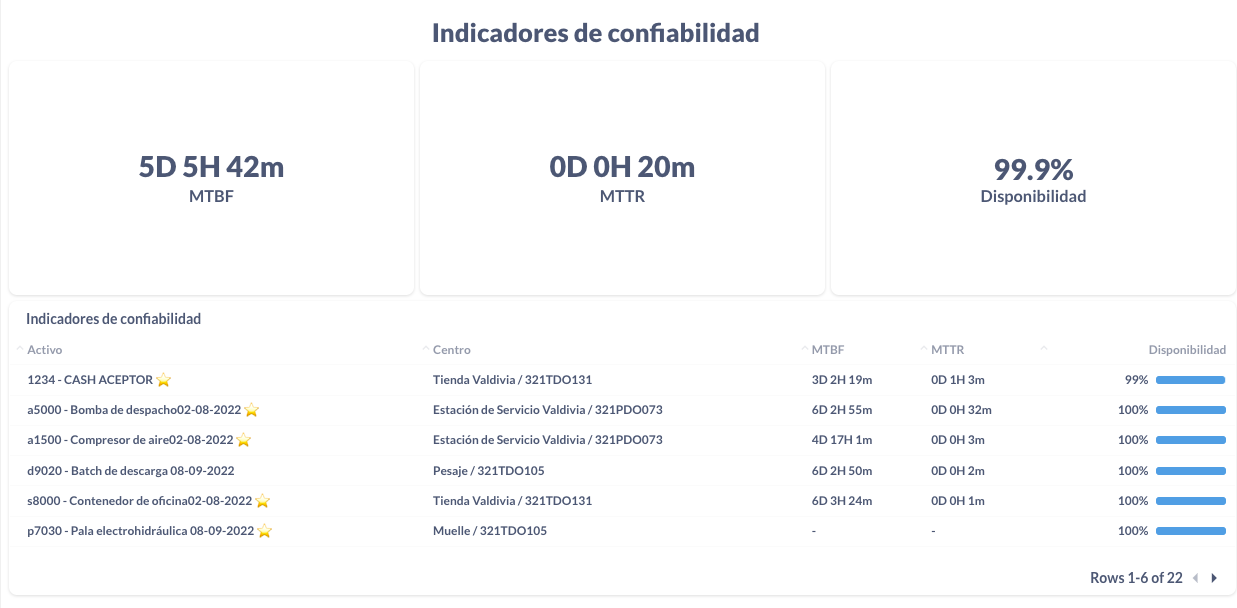
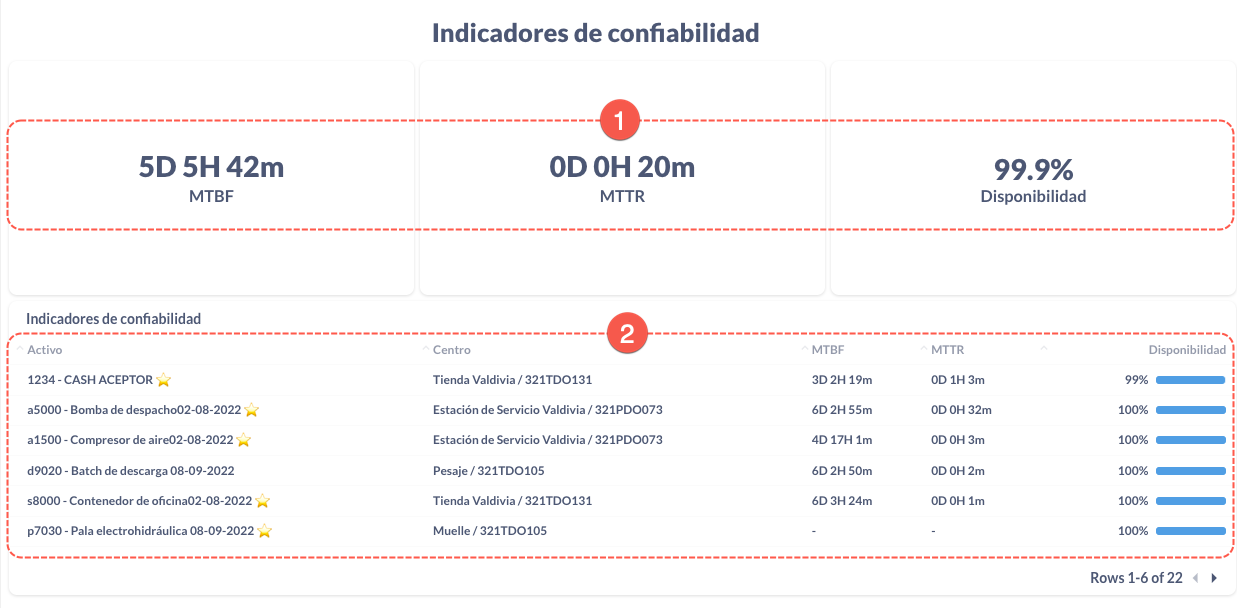
create wo form and dashboards

diff --git a/i18n/es/docusaurus-plugin-content-docs/current/products/corrective_maintenance/forms/form_create_wo.md b/i18n/es/docusaurus-plugin-content-docs/current/products/corrective_maintenance/forms/form_create_wo.md
@@ -1,14 +1,45 @@
 ---
 title: Formulario - Crear Orden de Trabajo
-displayed_sidebar: products_landing
+displayed_sidebar: products
 ---
-
-:::caution Advertencia
-Esta página aún no se encuentra traducida al español.
-:::
 
 import useBaseUrl from '@docusaurus/useBaseUrl'; 
 import Related, {toc as Title2TOC} from '/i18n/es/docusaurus-plugin-content-docs/current/products/corrective_maintenance/landing/_relatedTopics.mdx'; 
 
+[Volver atrás...](/docs/products/corrective_maintenance/actions/wo_create)
+
+<div className="container">
+<div className="row">
+<div className="col col--6">
+
+<div className="img_sizing_narrow">
+
 ![create wo form](/img/productos_es/products_form_create_wo_cm.png)
+
+</div>
+</div>
+
+<div className="col col--6">
+
+- **<span className="badge badge--danger">1.</span> Título Descriptivo**: Escribe un título de referencia. Una vez enviado el formulario, el título de la orden de trabajo será generada automáticamente según el equipo y la fecha.
+- **<span className="badge badge--danger">2.</span> Descripción**: Esta descripción servirá de referencia para el personal de mantenimiento.
+- **<span className="badge badge--danger">3.</span> Equipamiento**: Indica el _equipo_ que requiere mantenimiento, eligiendo desde su lugar o sector más general al más específico donde está ubicado o pertenece. Al elegir una opción para este campo, un nuevo campo aparecerá con la siguiente opción.
+  - **[Sector de equipamiento 1–3](/docs/products/corrective_maintenance/master_data/equipment_sector)**
+  - **[Equipo](/docs/products/corrective_maintenance/master_data/equipment)**
+- **<span className="badge badge--danger">4.</span> [Prioridad](/docs/products/corrective_maintenance/master_data/failure_priority)**: Establece la prioridad que se le quiere dar a la orden.
+- **<span className="badge badge--danger">5.</span> Fecha esperada de resolución**: Establece cuando el trabajo debe ser entregado. En caso de que la la orden no es cerrada antes de la fecha, un mensaje de alerta será enviado al canal a la tarea y correos electrónicos a los usuarios involucrados. 
+- **<span className="badge badge--danger">6.</span> Evidencia**: Se puede sacar una foto directamente con el dispositivo o adjuntar una imagen almacenada en una galería o carpeta.
+- **<span className="badge badge--danger">7.</span> Firma**: Quien envía la orden de trabajo debe firmar aquí. Esta firma se adjuntará en la versión PDF de la Orden de Trabajo.
+- **<span className="badge badge--danger">8.</span> Enviar**: La orden es enviada y se da inicio al [flujo de órdenes de trabajo](/docs/products/workflows/work_orders/related-product/wo/workflow).
+
+
+</div>
+
+</div>
+</div>
+
+## Temas Relacionados {#related-topics}
+
+<Related/>
+
 

diff --git a/i18n/es/docusaurus-plugin-content-docs/current/products/corrective_maintenance/forms/form_notify.md b/i18n/es/docusaurus-plugin-content-docs/current/products/corrective_maintenance/forms/form_notify.md
@@ -1,7 +1,7 @@
 ---
 title: Formulario
 sidebar_label: Crear Nuevo Aviso
-
+displayed_sidebar: products
 ---
 
 import useBaseUrl from '@docusaurus/useBaseUrl'; 
@@ -11,13 +11,18 @@ import Related, {toc as Title2TOC} from '/i18n/es/docusaurus-plugin-content-docs
 
 [_Volver atrás._](/docs/products/corrective_maintenance/actions/create_notification)
 
-<div className="img_sizing_small">
+<div className="container">
+<div className="row">
+<div className="col col--6">
+
+<div className="img_sizing_narrow">
 
 ![create notification form](/img/productos_es/products_form_notify_cm.png)
 
 </div>
+</div>
 
-<div className="margin-left--lg">
+<div className="col col--6">
 
 - **<span className="badge badge--danger">1.</span> Fecha del incidente**: Automaticamente generada al abrir el formulario pero puede ser modificada.  <br/>
 _A partir de esta fecha se fija automáticamente la fecha de término como parte de un Service-Level Agreement (SLA) dependiendo de la prioridad de la falla. El sistema enviará un correo electrónico a los usuarios involucrados si no se cumplen con los plazos._
@@ -26,11 +31,13 @@ _A partir de esta fecha se fija automáticamente la fecha de término como parte
   - [**Sector de Equipamiento**](/docs/products/corrective_maintenance/master_data/equipment_sector)
   - [**Equipo**](/docs/products/corrective_maintenance/master_data/equipment)
   - [**Falla**](/docs/products/corrective_maintenance/master_data/failure_catalog)
-- **<span className="badge badge--danger">4.</span> Evidencia fotográfica**: Se puede sacar una foto directamente o adjuntar una imagen almacenada en una galería o carpeta.
+- **<span className="badge badge--danger">4.</span> Evidencia fotográfica**: Se puede sacar una foto directamente con el dispositivo o adjuntar una imagen almacenada en una galería o carpeta.
 - **<span className="badge badge--danger">5.</span> Enviar**: Al enviar el formulario se inicia el flujo de trabajo de [Mantenimiento Correctivo](/docs/products/corrective_maintenance/landing/overview).
 
 </div>
 
+</div>
+</div>
 
 ## Temas Relacionados {#related-topics}
 <Related/>

diff --git a/i18n/es/docusaurus-plugin-content-docs/current/products/corrective_maintenance/actions/create_notification.md b/i18n/es/docusaurus-plugin-content-docs/current/products/corrective_maintenance/actions/create_notification.md
@@ -40,10 +40,6 @@ El [**equipo**](/docs/products/corrective_maintenance/master_data/equipment) que
 
 1. Seleccionar Aviso.
 
-<!-- <span className="hero__subtitle"><b>1. Seleccionar Aviso.</b></span>
-<br/>
-<br/> -->
-
 <div className="margin-left--lg">
 
 ![first-step](/img/productos_es/products_cm_create_notification_01.png)
@@ -57,10 +53,6 @@ _La sección **Aviso** se encuentra en el menú principal, normalmente dentro de
 
 2. Apretar el botón de acciones.
 
-<!-- <span className="hero__subtitle"><b>2. Apretar el botón de acciones.</b></span>
-<br/>
-<br/> -->
-
 <div className="margin-left--lg">
 
 ![second-step](/img/productos_es/products_cm_create_notification_02.png)
@@ -69,10 +61,6 @@ _La sección **Aviso** se encuentra en el menú principal, normalmente dentro de
 <br/>
 
 3. Apretar el botón Crear Aviso.
-
-<!-- <span className="hero__subtitle"><b>3. Apretar el botón Crear Aviso.</b></span>
-<br/>
-<br/> -->
 
 <div className="margin-left--lg">
 
@@ -83,20 +71,12 @@ _La sección **Aviso** se encuentra en el menú principal, normalmente dentro de
 
 4. Rellenar y enviar el formulario.
 
-<!-- <span className="hero__subtitle"><b>4. Rellenar y enviar el formulario.</b></span>
-<br/>
-<br/> -->
-
 <div className="margin-left--lg">
 
 ![fourth-step](/img/productos_es/products_cm_create_notification_04.png)
 
-:::note Más detalles
-📋 [Formulario Crear Nuevo Aviso](/docs/products/corrective_maintenance/forms/form_notify)
-:::
-
 </div>
-<br/>
+
  
 </TabItem>
 
@@ -113,12 +93,12 @@ _La sección **Aviso** se encuentra en el menú principal, normalmente dentro de
 
 </div>
 
+</TabItem>
+</Tabs>
+
 :::note Más detalles
 📋 [Formulario Crear Nuevo Aviso](/docs/products/corrective_maintenance/forms/form_notify)
 :::
-
-</TabItem>
-</Tabs>
 
 ## Resultados Esperados {#results}
 Al enviar el **Aviso**, el sistema genera automáticamente una _orden de trabajo_ con toda la información entregada. 

diff --git a/i18n/es/docusaurus-plugin-content-docs/current/products/corrective_maintenance/reports/filters.md b/i18n/es/docusaurus-plugin-content-docs/current/products/corrective_maintenance/reports/filters.md
@@ -19,7 +19,7 @@ A continuación, los filtros disponibles en el reporte de mantenimiento:
 
 Filtro | Descripción | Opciones
 --- | --- | ---
-**Fecha** | Visualiza data correspondiente al tiempo indicado. | Se puede filtrar por minutos, horas, días, semanas, meses, cuartos o años. Observa las opciones para designar los tiempos antes, entre, o después de los indicados.
+**Fecha** | Visualiza data correspondiente al tiempo indicado. | Observa las opciones para designar los periodos de tiempo antes, entre, o después de lo indicado. Indica la cantidad y la medida de tiempo, es decir, filtrar por minutos, horas, días, semanas, meses, cuartos o años. 
 **Estado Correctivo** | Muestra la data de los estados seleccionados del [_flujo de Avisos_](/docs/products/workflows/notifications/workflow). | 1. Reportada<br/>2. En Proceso<br/>3. Tareas Completadas<br/>4. Rechazada
 **Estado Preventivo** | Muestra la data de los estados seleccionados del [_flujo de Planes Preventivos_](/docs/products/workflows/preventive_plans/workflow). | 0. Crear checklist<br/>1. Plan activo<br/>2. Plan inactivo
 **Estado Órdenes Trabajo** | Muestra la data de los estados seleccionados del [_flujo de Órdenes de Trabajo_](/docs/products/workflows/work_orders/related-product/wo/workflow). | 0. Evaluación Masiva<br/>0. Reportar aviso<br/>0. Tareas futuras<br/>1. Reportado<br/>2. Pendiente<br/>3. Validación<br/>4. Cerrado<br/>5.1 Pendiente a rechazo<br/>5.2 Rechazado<br/>9. Presupuestos

diff --git a/i18n/es/docusaurus-plugin-content-docs/current/products/corrective_maintenance/reports/reported_incidents.md b/i18n/es/docusaurus-plugin-content-docs/current/products/corrective_maintenance/reports/reported_incidents.md
@@ -2,9 +2,30 @@
 title: Incidentes Reportados
 ---
 
+## Resumen {#overview}
+
+
+## Incidentes Registrados Históricamente {#recorded-incidents}
+Este gráfico muestra los incidentes diariamente reportados por medio de [Avisos](/docs/products/corrective_maintenance/actions/create_notification). El [filtro](/docs/products/corrective_maintenance/reports/filters) de _fecha_ permite ajustar o extender el periodo de tiempo mostrado en pantalla.
+
 <div className="margin-left--lg">
 
-![data](/img/productos_es/product_report_03.png)
+![data](/img/productos_es/product_report_03a.png)
 
 </div>
 <br/>
+
+## Promedio Duración de Incidentes {#incident-duration}
+El promedio de duración de inicidentes es el tiempo entre que se manda el [aviso](/docs/products/corrective_maintenance/actions/create_notification) y el [trabajo es recepcionado](/docs/products/corrective_maintenance/actions/wo_validate).
+
+Se pueden, además, visualizar los promedios de duración según el [sector de equipamiento](/docs/products/corrective_maintenance/master_data/equipment_sector) o [categoría](/docs/products/corrective_maintenance/master_data/equipment_category). 
+
+<div className="margin-left--lg">
+
+![data](/img/productos_es/product_report_03b.png)
+
+</div>
+<br/>
+
+
+

diff --git a/docs/products/corrective_maintenance/forms/form_notify.md b/docs/products/corrective_maintenance/forms/form_notify.md
@@ -1,7 +1,7 @@
 ---
 title: Formulario
 sidebar_label: Crear Nuevo Aviso
-
+displayed_sidebar: products
 ---
 
 import useBaseUrl from '@docusaurus/useBaseUrl'; 
@@ -15,13 +15,18 @@ Our English version is not yet available.
 
 [_Volver atrás._](/docs/products/corrective_maintenance/actions/create_notification)
 
-<div className="img_sizing_small">
+<div className="container">
+<div className="row">
+<div className="col col--6">
+
+<div className="img_sizing_narrow">
 
 ![create notification form](/img/productos_es/products_form_notify_cm.png)
 
 </div>
+</div>
 
-<div className="margin-left--lg">
+<div className="col col--6">
 
 - **<span className="badge badge--danger">1.</span> Fecha del incidente**: Automaticamente generada al abrir el formulario pero puede ser modificada.  <br/>
 _A partir de esta fecha se fija automáticamente la fecha de término como parte de un Service-Level Agreement (SLA) dependiendo de la prioridad de la falla. El sistema enviará un correo electrónico a los usuarios involucrados si no se cumplen con los plazos._
@@ -35,6 +40,8 @@ _A partir de esta fecha se fija automáticamente la fecha de término como parte
 
 </div>
 
+</div>
+</div>
 
 ## Temas Relacionados {#related-topics}
 <Related/>

diff --git a/docs/products/corrective_maintenance/forms/form_create_wo.md b/docs/products/corrective_maintenance/forms/form_create_wo.md
@@ -1,0 +1,40 @@
+---
+title: Formulario - Crear Orden de Trabajo
+displayed_sidebar: products
+---
+
+:::caution WE'RE SORRY... 😢
+Our English version is not yet available.
+:::
+
+import useBaseUrl from '@docusaurus/useBaseUrl'; 
+import Related, {toc as Title2TOC} from '/i18n/es/docusaurus-plugin-content-docs/current/products/corrective_maintenance/landing/_relatedTopics.mdx'; 
+
+[Volver atrás...](/docs/products/corrective_maintenance/actions/wo_create)
+
+<div className="container">
+<div className="row">
+<div className="col col--6">
+
+<div className="img_sizing_narrow">
+
+![create wo form](/img/productos_es/products_form_create_wo_cm.png)
+
+</div>
+</div>
+
+<div className="col col--6">
+
+
+
+
+</div>
+
+</div>
+</div>
+
+## Temas Relacionados {#related-topics}
+
+<Related/>
+
+

diff --git a/i18n/es/docusaurus-plugin-content-docs/current/products/corrective_maintenance/reports/confidence_indicators.md b/i18n/es/docusaurus-plugin-content-docs/current/products/corrective_maintenance/reports/confidence_indicators.md
@@ -3,7 +3,13 @@ title: Indicadores de Confiabilidad
 ---
 
 ## Resumen {#overview}
+El panel de control calcula el tiempo promedio en que los equipos están funcionando y su reparación cuando la requieren.
 
+Los tiempos se calculan automáticamente en base a los formularios enviados durante el proceso.
+
+## Indicadores {#description}
+
+_Se muestran el tiempo (1) general y (2) específico por equipo:_
 
 <div className="margin-left--lg">
 
@@ -11,3 +17,11 @@ title: Indicadores de Confiabilidad
 
 </div>
 <br/>
+
+<div className="margin-left--lg">
+
+- **MTBF**: Tiempo promedio entre fallas
+- **MTTR**: Tiempo promedio de reparaciones
+- **Disponibilidad**: Porcentaje de disponibilidad de equipos 
+
+</div>

diff --git a/i18n/es/docusaurus-plugin-content-docs/current/products/corrective_maintenance/actions/wo_create.md b/i18n/es/docusaurus-plugin-content-docs/current/products/corrective_maintenance/actions/wo_create.md
@@ -72,6 +72,10 @@ Para poder crear una Orden de Trabajo manualmente, los usuarios deben tener uno 
 </TabItem>
 </Tabs>
 
+:::note Más detalles
+📋 [Formulario Crear Orden de Trabajo](/docs/products/corrective_maintenance/forms/form_create_wo)
+:::
+
 ## Resultados Esperados {#results}
 Al crear la orden de trabajo, un mensaje de sistema es enviando al área de chat con el nombre, número e información de la orden de trabajo:
 
